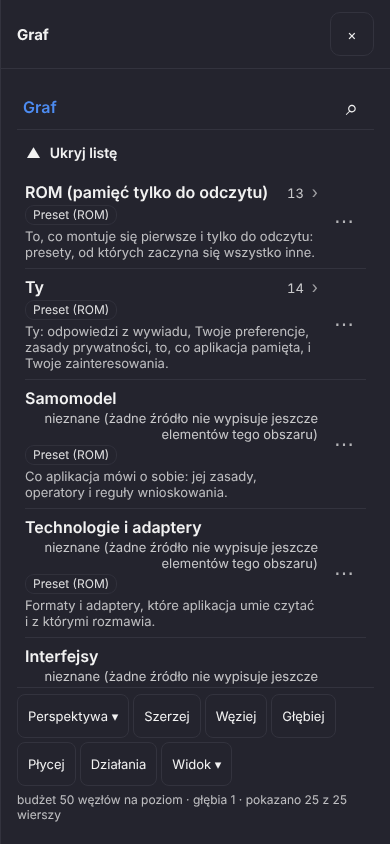
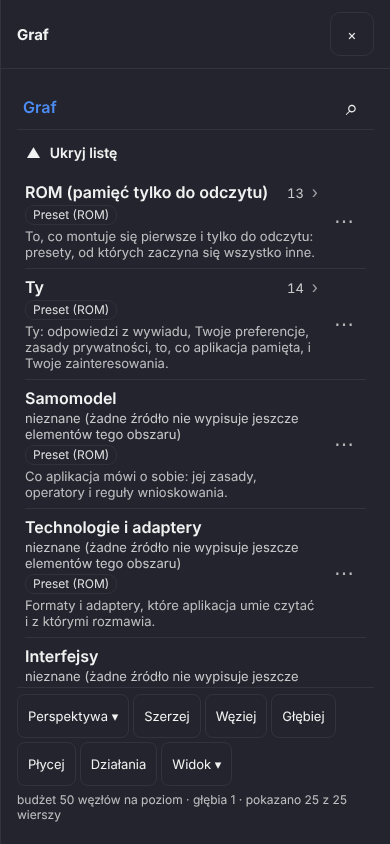
M1-W0 fix batch r1:b6 (docs): report section 'Co doszło w poprawkach r1:b6' (three findings fixed, two shown already done: #czat config load since r1:b2, map labels thinned by placeLabels since r1:b1), two root screenshots refreshed by the navigator e2e; M1_W0_TESTIDS.md gets shum-hidden, shum-propo
Claude-Session: https://claude.ai/code/session_015yMVYJqXDd8sNSZdYq3gu5

Changed region(s): [[0.0615, 0.6469, 0.8308, 0.6777], [0.0615, 0.4929, 0.8308, 0.5237], [0.0923, 0.8009, 0.7692, 0.8318]]

diff --git a/docs/reports/INDEX.md b/docs/reports/INDEX.md
@@ -1577,3 +1577,10 @@ budowy cmake nie uruchamiano (dysk zajęty przez bramkę gdzie indziej).
 - Generaty: `runtime_profiles_embedded.inc` (po `guardian.pack`, `graph_views.pack`), `builtin.inc` + `conversation-view.json` (po `conversation_view.pack`); `gen_runtime_profiles.py --check` i `gen_onboarding_pack.py --check` czyste; jądro dev przebudowane przyrostowo.
 - Testy (fakty): `tsc` + `npm run build` czyste; `ctest -R "guardian|graph_projection|onboarding|ports|graph_views|annotations"` 13/13 (M1-D1 klasy modelu z nowymi oczekiwaniami); node-card-state 8/8, settings-human 7/7, navigator-state 9/9, navigator-map 9/9, role-card 5/5, shell 9/9, composer-menu 13/13; `test:m1-navigator` 12/12, `test:m1-settings` 9/9; 12 zrzutów w `docs/reports/M1_CHECKPOINT_0/` zapisanych ponownie (sprawdzone wzrokiem: `m1-navigator-card-rom.png`, `m1-settings-role-card.png`, `m1-settings-groups.png`). Nie uruchomione: pełny `ctest`, pełne `npm run e2e`, `android-smoke`, sonda Warsztatu w przeglądarce.
 - Decyzje i jak cofnąć: (a) kotwica „-mini” zamiast regexu lub podziału na segmenty — dopasowanie jądra to podciąg (`models.cpp model_tier`, `projection.cpp tier_reason`) i myślnik wystarcza dla gpt-*/o*-mini; „ministral”/„minimax” przestają być tanie przez przypadek i są „nieznane” (prawda: żaden wzorzec ich nie opisuje; przepływ unknown = narrow_questions, ten sam co cheap); cofnięcie: wzorzec „mini”. (b) Nagłówek wierszy przychodzących z `inverse_label` rodzaju (dane `graph_views`), bez nowych fraz na każdy z 46 rodzajów; rodzaj bez odwrotności: jeden nagłówek + strzałki; cofnięcie: przywrócić `g.label — g.meaning`. (c) Zdanie znaczenia rodzaju zeszło z karty (zostaje w `graph.card.meaning`); cofnięcie: dopisać je pod nagłówkiem. (d) Wstęp z parametrem, nie bez liczby — liczba grup jest faktem z `settings.resolved`; cofnięcie: słowo bez `{{groups}}`. (e) Logs/Operations/Import/Context/Methods/Analysis/Onboarding w Warsztacie po angielsku: brak słów w katalogu, poza zakresem paczki.
+
+### S1 / M1-W0 (poprawki po przeglądzie r1:b6: brakujące słowo = id, nakładki jako dialogi, pole szukania z nazwą, „nieznane (powód)” we własnej linii, testid-y) (2026-10-21, branch `claude/m1-w0`)
+
+- Co jest (5 ustaleń przeglądu, wszystkie drobne: 3 poprawione, 2 pokazane jako już zrobione): (1) `presentation.mjs` `featureInLanguage(feature, language, { partial })` (+ `presentation.d.mts`): z opcją katalog języka brany w całości albo nie; `shell/text.ts` `shellTranslator` używa `partial: true`, więc słowo, którego brakuje po polsku, pokazuje swój id, a nie angielskie słowo ani cały ekran po angielsku; `ChatView` (propozycje) bez opcji — „jeden język na odpowiedź” bez zmian; test w `shell.test.mjs`. (2) `shell/use-dialog-focus.ts` (nowy): fokus wchodzi do nakładki przy otwarciu (chyba że dziecko z `autoFocus` już go ma) i wraca do elementu, który go miał, a gdy ten zniknął (pozycja menu ⋮) — do `data-testid` z `returnTo` (`shell-menu-toggle`); `App.tsx` szuflada panelu i arkusz Wiedzy, `ChatShell.tsx` arkusze Widoki/Analiza: `role="dialog"`, `aria-modal="true"`, `aria-label` = tytuł, `tabIndex={-1}`; krzyżyk arkuszy „Zamknij: <ekran>” (`panel_close`); `GraphNavigator.tsx` pole szukania `aria-label={t("search")}`. (3) `GraphNavigator.tsx` + `graph-navigator.css`: `nav-count` z `data-known`; licznik nieznany ma klasę `gnav-count-unknown` (`flex: 1 0 100%; order: 3; text-align: left`) — własna linia pod etykietą, chevron zostaje w linii nazwy. (4) `M1_W0_TESTIDS.md`: `shum-hidden`, `shum-proposals`, `data-known`, atrybuty dialogu. (5) `menu.test.mjs` wzorzec `graph-entry` → `workshop_graph_entry` (czerwony od r1:b5, nie zgłoszony). Pokazane jako już zrobione: start z `#czat/<id>` wczytuje konfigurację (r1:b2, `App.tsx` gałąź linku woła `api.getConfig()` — uwaga cytowała stary kod); etykiety mapy nie nachodzą (r1:b1 `placeLabels`, test navigator-map „labels on the plane…”, bieżący zrzut bez nakładek).
+- Generaty: żadne (bez zmian w packach i jądrze).
+- Testy (fakty): `tsc` + `npm run build` czyste; shell 10/10, menu 8/8, navigator-state 9/9, navigator-map 9/9, node-card-state 8/8, settings-human 7/7, role-card 5/5, composer-menu 13/13, history 13/13; `test:m1-navigator` 12/12 (nowe asercje: `role`/`aria-modal`/`aria-label` = h2, fokus w szufladzie po otwarciu i na ⋮ po Wstecz, nazwa pola szukania, geometria licznika nieznanego pod etykietą i liczby w linii etykiety), `test:m1-settings` 9/9; zrzuty `m1-navigator-root.png`, `m1-navigator-root-list.png` zapisane ponownie (sprawdzone wzrokiem). Nie uruchomione: `ctest` (jądro bez zmian), pełne `npm run e2e`, `android-smoke`.
+- Decyzje i jak cofnąć: (a) `partial` jako opcja, nie zmiana domyślna — propozycje czatu mają inną zasadę (jeden język na odpowiedź), ekrany mają zasadę „id zamiast cichego angielskiego”; cofnięcie: usunąć opcję w `shellTranslator`. (b) Fokus na samą szufladę (`tabIndex -1`), nie na pierwszy element — nie kradnie fokusu polom z `autoFocus` i czytnik słyszy tytuł; powrót na ⋮, bo element menu znika z menu; cofnięcie: usunąć `useDialogFocus`. (c) Licznik nieznany jako osobna linia przez CSS (`order`), bez drugiego elementu DOM — jeden `nav-count` dla testów; cofnięcie: usunąć klasę.

diff --git a/docs/reports/M1_W0_TESTIDS.md b/docs/reports/M1_W0_TESTIDS.md
@@ -75,7 +75,7 @@ systemowym Wstecz na czacie, gdzie powłoka Androida ma zapytać o wyjście (M1-
 |---|---|---|
 | czat | `chat-shell` | korzeń układu czatu (zawsze obecny) |
 | menu ⋮ | `shell-menu-toggle` (`aria-expanded`), `shell-menu` (`role=menu`), `shell-menu-<id>` (`role=menuitem`) | `<id>` = id pozycji z `layouts.json`: `graph`, `settings`, `me`, `this_conversation`, `views`, `semantic`, `connection` (tylko `when: android_shell`), `workshop`; **nie ma** `shell-menu-memory` ani `shell-menu-knowledge` |
-| panel | `panel-<id>` (szuflada; `panel-settings`, `panel-navigator`, `panel-user-knowledge`, `panel-graph`), `close-panel` (×) | jeden wpis historii na otwarty panel; `×` = to samo co Wstecz |
+| panel | `panel-<id>` (szuflada; `panel-settings`, `panel-navigator`, `panel-user-knowledge`, `panel-graph`; `role="dialog"`, `aria-modal="true"`, `aria-label` = tytuł), `close-panel` (×) | jeden wpis historii na otwarty panel; `×` = to samo co Wstecz; po otwarciu fokus jest w szufladzie (`document.activeElement` w środku), po zamknięciu wraca na `shell-menu-toggle` |
 | wstecz | `window.__loomBack()` → `true` gdy zamknął warstwę (menu, szufladę, arkusz, kartę, krok ścieżki, panel), `false` na dnie stosu | synchroniczne; Escape na komputerze robi to samo |
 
 ## Nawigator — lista (paczka P2, `loom/web/src/components/GraphNavigator.tsx`; e2e `loom/web/e2e/m1-navigator-native.mjs`)
@@ -89,7 +89,7 @@ Otwarcie: `shell-menu-toggle` → `shell-menu-graph` → panel `panel-navigator`
 | szukanie | `nav-search-toggle`, `nav-search-input` | lupa otwiera/zamyka pole; pole = `graph.navigate query` na tym poziomie |
 | ognisko | `nav-focus-why` | jedno zdanie „po co” ogniska (poza korzeniem) |
 | lista | `nav-rows` (`data-shown`, `data-total`), `nav-loading`, `nav-empty`, `nav-error` | lista `li` wierszy; stany |
-| wiersz | `nav-row-<adres>` (`data-has-children`), `nav-count`, `nav-chip`, `nav-evidence`, `nav-status`, `nav-row-card-<adres>` | wiersz (dotknięcie: wejście albo karta liścia), licznik, chip pochodzenia, chip dowodu, chip stanu, `⋯` (otwiera/zamyka kartę węzła, `aria-expanded`) |
+| wiersz | `nav-row-<adres>` (`data-has-children`), `nav-count` (`data-known`: `true` = liczba w linii etykiety, `false` = „nieznane (powód)” we własnej linii pod etykietą), `nav-chip`, `nav-evidence`, `nav-status`, `nav-row-card-<adres>` | wiersz (dotknięcie: wejście albo karta liścia), licznik, chip pochodzenia, chip dowodu, chip stanu, `⋯` (otwiera/zamyka kartę węzła, `aria-expanded`) |
 | uczciwość | `nav-collapsed`, `nav-hidden`, `nav-unknown-<źródło>` | zwinięte przez budżet, ukryte przez Ciebie, źródło bez odpowiedzi (powód) |
 | pasek | `nav-bar`, `nav-bar-perspective`, `nav-bar-wider`, `nav-bar-narrower`, `nav-bar-deeper`, `nav-bar-shallower`, `nav-bar-actions`, `nav-bar-view`, `nav-bar-planned`, `nav-budget` | pasek dolny; `planned` = linia po dotknięciu przycisku bez obsługi; `budget` = „budżet N węzłów na poziom · głębia H · pokazane z wszystkich” |
 
@@ -133,7 +133,7 @@ Wstecz: otwarte menu Widok ▾ jest warstwą `navigator-view` (zamyka się pierw
 | ekran | testid | znaczenie |
 |---|---|---|
 | korzeń | `settings-human`, `shum-loading`, `shum-error` + `shum-retry` | korzeń ekranu; stany wczytywania i błędu jądra |
-| lista grup | `shum-intro`, `shum-total` (`data-fields`, `data-yours`), `shum-yours-help`, `shum-filter` (`role=switch`, `aria-checked`), `shum-groups` | opis, suma „N pól · M Twoje”, filtr „Pokaż tylko zmienione”, lista ośmiu grup |
+| lista grup | `shum-intro`, `shum-total` (`data-fields`, `data-yours`), `shum-yours-help`, `shum-filter` (`role=switch`, `aria-checked`), `shum-groups`, `shum-hidden`, `shum-proposals` | opis, suma „N pól · M Twoje”, filtr „Pokaż tylko zmienione”, lista ośmiu grup; `shum-hidden` = linia „N kluczy ukrytych” (tylko gdy `hidden_keys` z `settings.resolved` nie jest puste), `shum-proposals` = linia „Propozycje: <dziś> <powód>” z `proposals_status` |
 | grupa (wiersz) | `shum-group-<id>` (`data-fields`, `data-yours`), `shum-group-open-<id>` (przycisk), `shum-group-count-<id>` (tekst „N pól · M Twoje”) | `<id>` = id grupy z jądra: `ty`, `rozmowa`, `modele`, `kontekst`, `interfejs`, `prywatnosc`, `koszty`, `silnik`; suma `data-fields` = `counts.fields` z `settings.resolved` |
 | widok grupy | `shum-group-view-<id>` (`data-fields`, `data-shown`), `shum-back`, `shum-group-why`, `shum-group-view-count`, `shum-empty`, `shum-sub-<podgrupa>`, `shum-fields-<id>` | po otwarciu grupy; `shum-back` = „Wróć do grup ustawień” |
 | pole | `shum-field-<klucz>` (`data-address`, `data-planned`), `shum-field-main-<klucz>` (rozwija szczegóły, `aria-expanded`), `shum-label-<klucz>`, `shum-value-<klucz>`, `shum-why-<klucz>`, `shum-chip-provenance-<klucz>`, `shum-chip-evidence-<klucz>`, `shum-chip-status-<klucz>`, `shum-chip-profile-<klucz>`, `shum-planned-<klucz>`, `shum-card-btn-<klucz>` (⋯ = karta) | wiersz pola; np. `shum-field-temperature` (Rozmowa), `shum-chip-provenance-temperature` |

diff --git a/docs/reports/M1_CHECKPOINT_0.md b/docs/reports/M1_CHECKPOINT_0.md
@@ -235,6 +235,37 @@ oddaje decyzję powłoce (`window.__loomBack()` zwraca `false` — tam Android p
   kierunek, nazwy węzłów i brak zdania znaczenia), `test:m1-settings` 9/9; 12 zrzutów zapisanych ponownie przez te testy. Nie
   uruchomione: pełny `ctest`, pełne `npm run e2e`, `android-smoke`, sonda Warsztatu w przeglądarce (słowo sprawdzone w bundlu).
 
+## Co doszło w poprawkach r1:b6 (2026-10-21, fakty z przebiegu)
+
+- **Brakujące słowo pokazuje swój identyfikator, nie angielski ekran:** tłumacz ekranów (`shell/text.ts`) bierze katalog języka
+  w całości albo nie (`featureInLanguage(…, { partial: true })`): gdyby polskiemu katalogowi zabrakło słowa, na ekranie stoi jego
+  id (np. `new_chat`), reszta po polsku — wcześniej cały ekran przełączał się po cichu na angielski. Propozycje w czacie zachowują
+  dawną zasadę „jeden język na odpowiedź” (bez opcji). Dziś katalogi są kompletne (testy parzystości kluczy); to zabezpieczenie,
+  nie naprawa czegoś widocznego. Test: `shell.test.mjs` „a word a language lacks shows its id”.
+- **Każda nakładka jest oknem dialogowym dla czytnika ekranu:** szuflada panelu (Graf, Ustawienia, Ty, Ta rozmowa, Warsztat…),
+  arkusz Wiedzy i arkusze Widoki/Analiza mają `role="dialog"`, `aria-modal="true"` i `aria-label` = tytuł; fokus wchodzi do
+  szuflady przy otwarciu (chyba że pole w środku samo go wzięło) i wraca na przycisk ⋮ przy zamknięciu (`shell/use-dialog-focus.ts`;
+  pozycja menu znika razem z menu, więc powrót idzie na ⋮). Krzyżyk arkuszy mówi „Zamknij: <ekran>” jak w panelach. Pole
+  wyszukiwania nawigatora ma nazwę (`aria-label`), nie tylko podpowiedź. E2E sprawdza rolę, nazwę, fokus w środku po otwarciu
+  i na ⋮ po Wstecz.
+- **„nieznane (powód)” we własnej linii pod etykietą:** licznik nieznany (`data-known="false"`, klasa `gnav-count-unknown`)
+  zajmuje całą szerokość pod nazwą i jest czytany od lewej; liczba zostaje w linii nazwy po prawej. Zrzut
+  `m1-navigator-root-list.png`; e2e mierzy geometrię obu przypadków.
+- **Etykiety na mapie — bez zmian:** od r1:b1 `placeLabels` rysuje tylko etykiety, które nie nachodzą na inne (fokus i dotknięty
+  znacznik pierwsze; test „labels on the plane are drawn only where they can be read”); na bieżącym `m1-navigator-map.png` nie ma
+  nakładających się napisów — „Nowe działa…”, „Gdzie traf…” są wśród znaczników bez etykiety, jedno dotknięcie od pełnej nazwy
+  w linii pod mapą. Uwaga z przeglądu dotyczyła wcześniejszego zrzutu.
+- **Start z `#czat/<id>` wczytuje konfigurację — bez zmian:** od r1:b2 gałąź linku w `App.tsx` woła `api.getConfig()`
+  (język, motyw, układ nawigatora); uwaga z przeglądu cytowała stary kod.
+- **Lista testid-ów:** doszły `shum-hidden`, `shum-proposals`, `data-known` na `nav-count` i atrybuty dialogu szuflady.
+- **`menu.test.mjs`** był czerwony od r1:b5 (etykieta „graph-entry” zmieniona na `workshop_graph_entry`, wzorzec testu nie):
+  wzorzec poprawiony, 8/8.
+- Przebieg: `npm run build` czysty; testy jednostkowe shell 10/10, menu 8/8, navigator-state 9/9, navigator-map 9/9,
+  node-card-state 8/8, settings-human 7/7, role-card 5/5, composer-menu 13/13, history 13/13; `test:m1-navigator` 12/12 (nowe
+  asercje: rola i nazwa dialogu, fokus, nazwa pola szukania, geometria licznika), `test:m1-settings` 9/9; 2 zrzuty zapisane
+  ponownie (`m1-navigator-root.png`, `m1-navigator-root-list.png`). Jądro bez zmian (`ctest` nie uruchamiany). Nie uruchomione:
+  pełne `npm run e2e`, `android-smoke`.
+
 ## Czego jeszcze NIE ma (i dlaczego)
 
 - **Przełącznik „Ustawiam dla: mnie / tej rozmowy / projektu…”** nad listą pól — dziś poziom wybierasz w karcie przy
